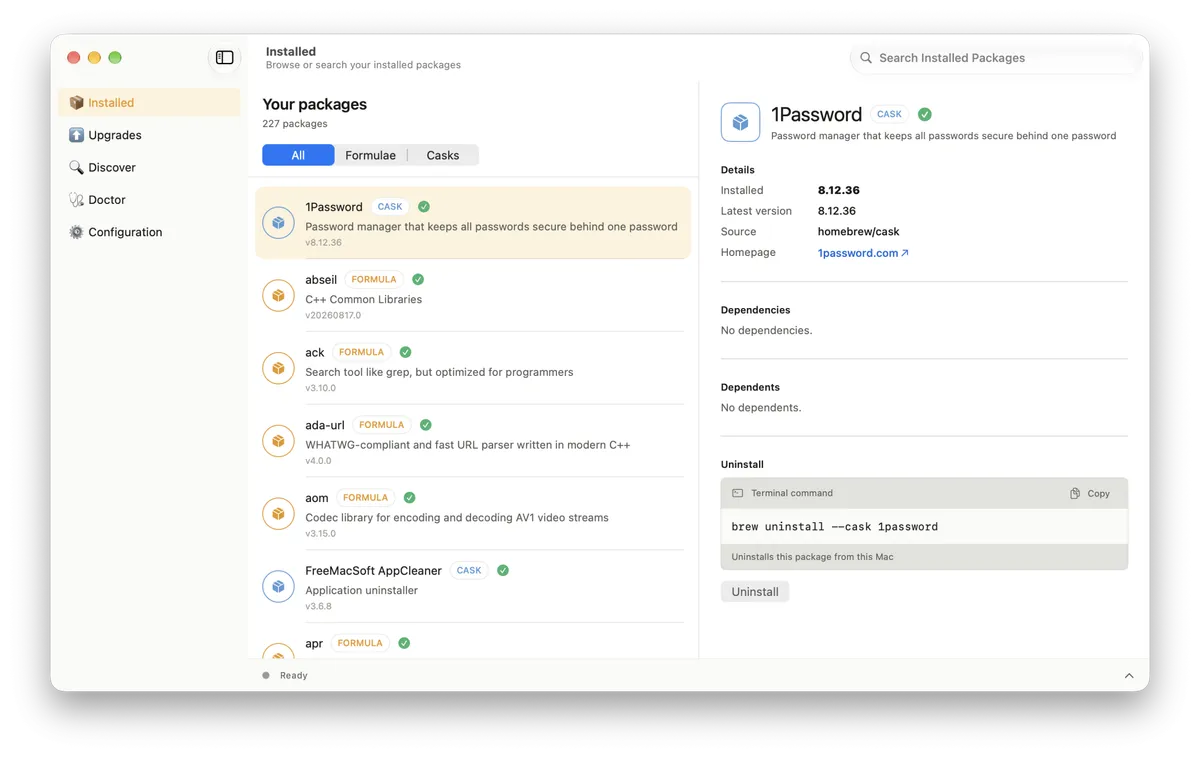
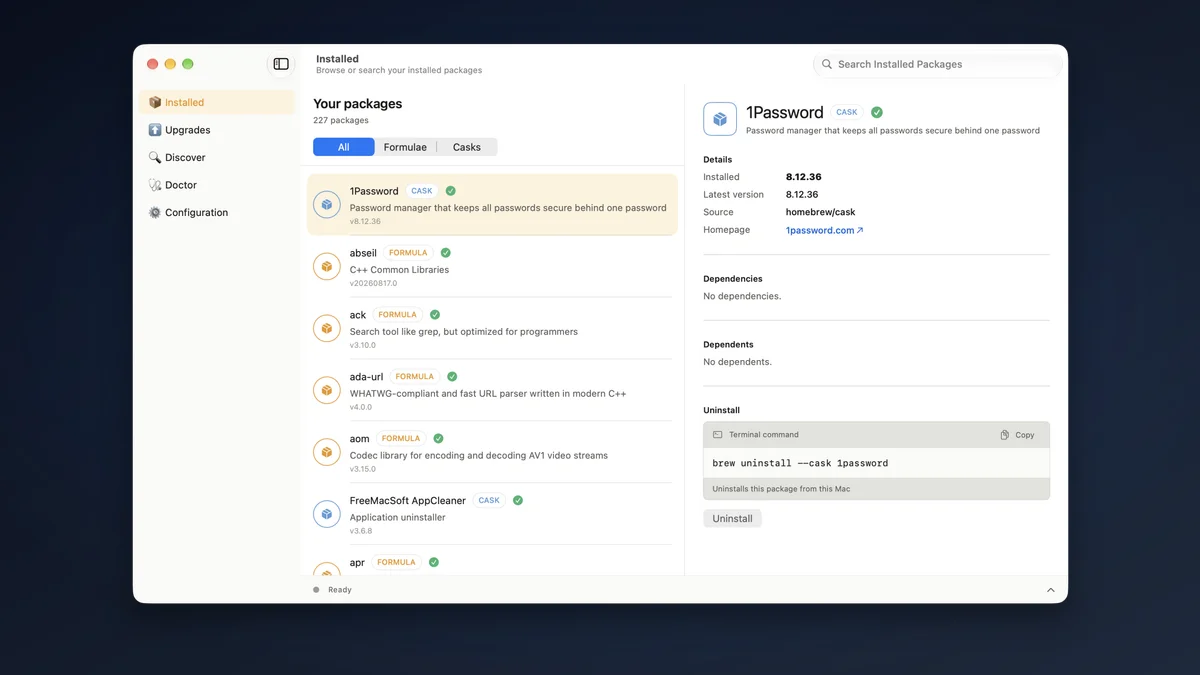
fix: Update imageAlt text for Homebrew 7 review and replace the associated image file

diff --git a/src/content/blog/2026/10/02-homebrew-7-and-new-gui-guide.md b/src/content/blog/2026/10/02-homebrew-7-and-new-gui-guide.md
@@ -5,7 +5,7 @@ description: "Homebrew 7 review: explore the official BrewUI native macOS app, v
 publishDate: 2026-10-02
 author: "Mehdi"
 image: "./02-homebrew-7-and-new-gui-guide.webp"
-imageAlt: "Modern macOS desktop displaying the official BrewUI Homebrew app next to a dark terminal window"
+imageAlt: "Official BrewUI application window in Homebrew 7 showing package management interface and cask details"
 tags: ["Mac", "Tools", "Software", "Productivity"]
 draft: false
 faq:
